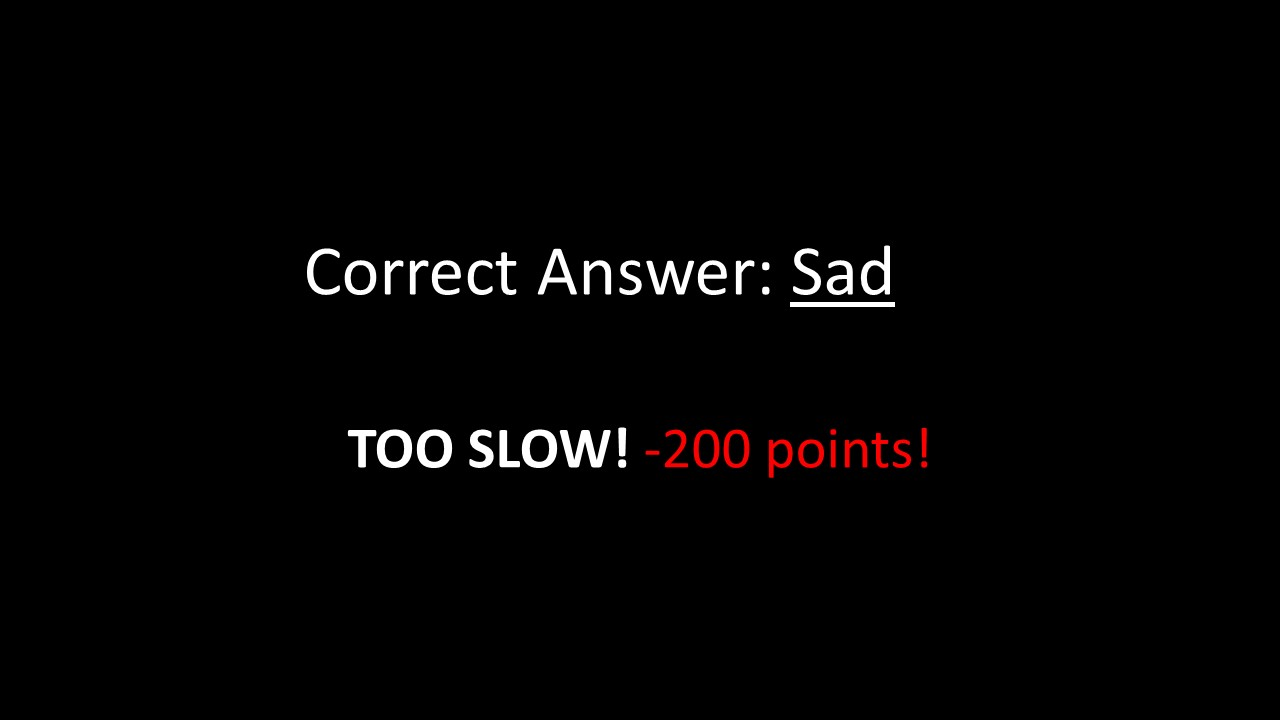
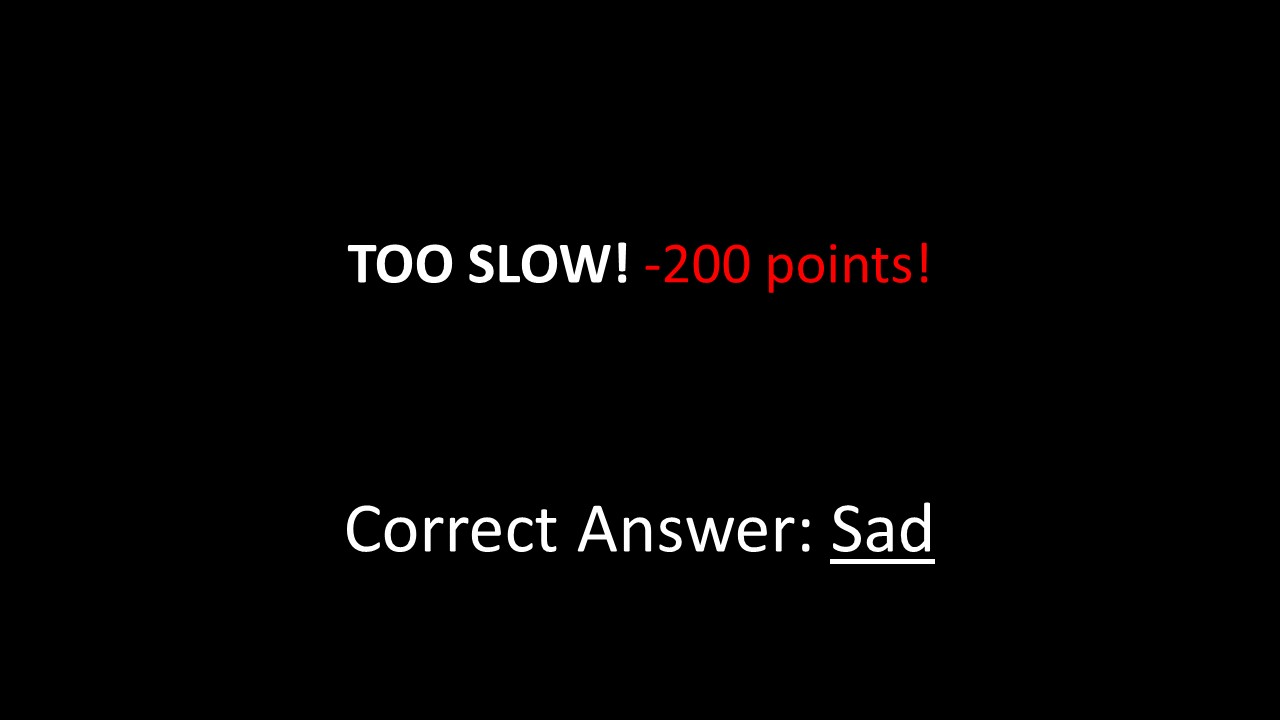
Updated score screen positioning to match local versions

Changed region(s): [[0.2188, 0.3361, 0.75, 0.4278], [0.25, 0.5806, 0.75, 0.6722], [0.25, 0.7028, 0.75, 0.7944]]

diff --git a/public/js/tasks/emotional_faces_v2/emotional_faces_v2.js b/public/js/tasks/emotional_faces_v2/emotional_faces_v2.js
@@ -810,7 +810,7 @@ function experimentInit() {
 		height: 0.06,
 		lineWidth: 3.5,
 		units: 'norm',
-		pos: [ 0, -0.4 ], ori: 0,
+		pos: [ 0, -0.1 ], ori: 0,
 		lineColor: new util.Color('grey'), opacity: 1,
 		depth: 0.0
 	});
@@ -822,7 +822,7 @@ function experimentInit() {
 		height: 0.06,
 		lineWidth: 3.5,
 		units: 'norm',
-		pos: [0, -0.4], ori: 0,
+		pos: [0, -0.1], ori: 0,
 		fillColor: new util.Color('#4d4d4d'),
 		lineColor: new util.Color('#4d4d4d'), opacity: 1,
 		depth: 0.0
@@ -835,7 +835,7 @@ function experimentInit() {
 		height: 0.06,
 		lineWidth: 0.1,
 		units: 'norm',
-		pos: [-0.5, -0.4], ori: 0,
+		pos: [-0.5, -0.1], ori: 0,
 		fillColor: new util.Color('#13aed1'),
 		lineColor: new util.Color('#13aed1'), opacity: 1,
 		depth: 0.0
@@ -847,7 +847,7 @@ function experimentInit() {
 		text: '-$$$',
 		font: 'Arial',
 		units: 'norm',
-		pos: [ -0.5, -0.3], height: 0.05, wrapWidth: undefined, ori: 0,
+		pos: [ -0.5, 0], height: 0.05, wrapWidth: undefined, ori: 0,
 		color: new util.Color('grey'), opacity: 1,
 		depth: 0.0
 	});
@@ -858,7 +858,7 @@ function experimentInit() {
 		text: '-$',
 		font: 'Arial',
 		units: 'norm',
-		pos: [ -0.25, -0.3], height: 0.05, wrapWidth: undefined, ori: 0,
+		pos: [ -0.25, 0], height: 0.05, wrapWidth: undefined, ori: 0,
 		color: new util.Color('grey'), opacity: 1,
 		depth: 0.0
 	});
@@ -869,7 +869,7 @@ function experimentInit() {
 		text: '+$$$',
 		font: 'Arial',
 		units: 'norm',
-		pos: [ 0.5, -0.3], height: 0.05, wrapWidth: undefined, ori: 0,
+		pos: [ 0.5, 0], height: 0.05, wrapWidth: undefined, ori: 0,
 		color: new util.Color('grey'), opacity: 1,
 		depth: 0.0
 	});
@@ -880,7 +880,7 @@ function experimentInit() {
 		text: '+$',
 		font: 'Arial',
 		units: 'norm',
-		pos: [ 0.25, -0.3], height: 0.05, wrapWidth: undefined, ori: 0,
+		pos: [ 0.25, 0], height: 0.05, wrapWidth: undefined, ori: 0,
 		color: new util.Color('grey'), opacity: 1,
 		depth: 0.0
 	});
@@ -891,7 +891,7 @@ function experimentInit() {
 		text: '0',
 		font: 'Arial',
 		units: 'norm',
-		pos: [ 0, -0.3], height: 0.05, wrapWidth: undefined, ori: 0,
+		pos: [ 0, 0], height: 0.05, wrapWidth: undefined, ori: 0,
 		color: new util.Color('grey'), opacity: 1,
 		depth: 0.0
 	});
@@ -957,7 +957,7 @@ function experimentInit() {
 		text: '0',
 		font: 'Arial',
 		units: 'norm',
-		pos: [0.04, -0.165], height: 0.11, wrapWidth: undefined, ori: 0,
+		pos: [0.04, 0.165], height: 0.11, wrapWidth: undefined, ori: 0,
 		color: new util.Color('#00ff00'), opacity: 1,
 		depth: 0.0
 	});
@@ -968,7 +968,7 @@ function experimentInit() {
 		text: 'Correct!',
 		font: 'Arial',
 		units: 'norm',
-		pos: [-0.15, -0.165], height: 0.11, wrapWidth: undefined, ori: 0,
+		pos: [-0.15, 0.165], height: 0.11, wrapWidth: undefined, ori: 0,
 		color: new util.Color('white'), opacity: 1,
 		depth: 0.0
 	});
@@ -1066,14 +1066,14 @@ function experimentInit() {
 	og_positions['score_bar_bottom_text'] = [0.29, -0.37]
 	og_positions['score_bar_midbottom_text'] = [0.29, -0.18]
 	og_positions['score_bar_mid_text'] = [0.29, 0]
-	og_positions['tot_score_bar'] = [ 0, -0.4 ]
-	og_positions['tot_score_bar_midline'] = [ 0, -0.4 ]
-	og_positions['tot_score_slide'] = [-0.5, -0.4]
-	og_positions['tot_score_bar_left_text'] = [ -0.5, -0.3]
-	og_positions['tot_score_bar_midleft_text'] = [ -0.25, -0.3]
-	og_positions['tot_score_bar_right_text'] = [ 0.5, -0.3]
-	og_positions['tot_score_bar_midright_text'] = [ 0.25, -0.3]
-	og_positions['tot_score_bar_mid_text'] = [ 0, -0.3]
+	og_positions['tot_score_bar'] = [ 0, -0.1 ]
+	og_positions['tot_score_bar_midline'] = [ 0, -0.1 ]
+	og_positions['tot_score_slide'] = [-0.5, -0.1]
+	og_positions['tot_score_bar_left_text'] = [ -0.5, -0]
+	og_positions['tot_score_bar_midleft_text'] = [ -0.25, -0]
+	og_positions['tot_score_bar_right_text'] = [ 0.5, -0]
+	og_positions['tot_score_bar_midright_text'] = [ 0.25, -0]
+	og_positions['tot_score_bar_mid_text'] = [ 0, -0]
 
 	// Tone Sounds
 	// high_tone = new Sound({
